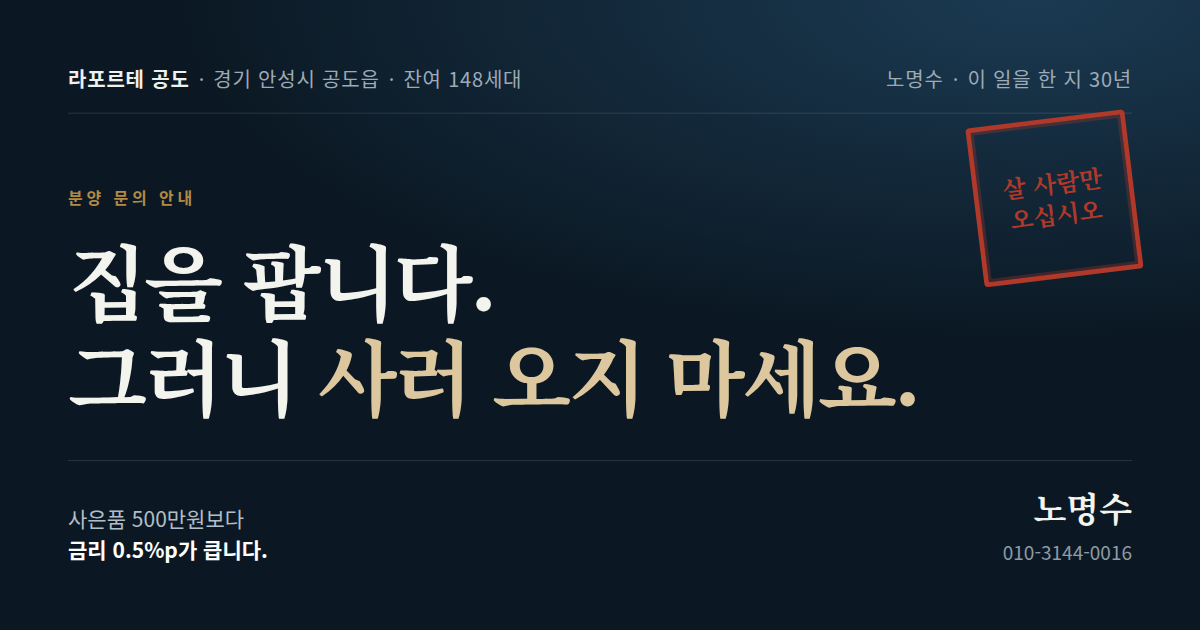
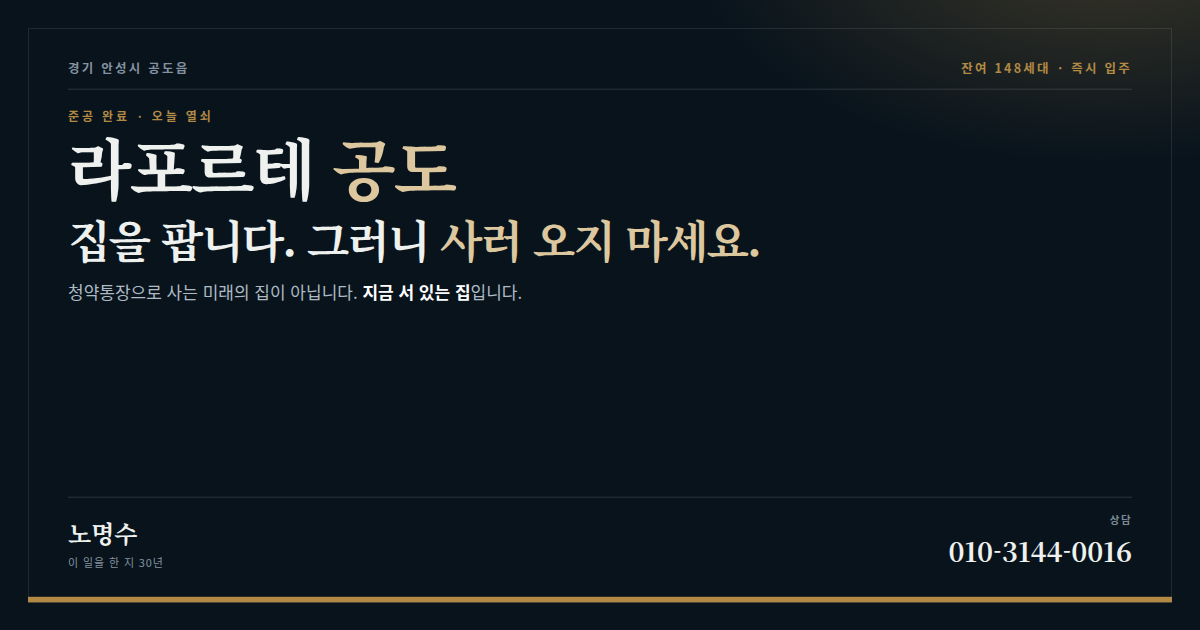
design: 단지명 '라포르테 공도' 대형 노출 + 유형상품(준공·즉시입주) 컨셉

diff --git a/hero_static.html b/hero_static.html
@@ -69,9 +69,20 @@
   .doc i{font-style:normal;color:#5f6d78;letter-spacing:.2em;font-size:9.2px;margin-right:7px}
   .doc b{color:#cdd6dc;font-weight:700;letter-spacing:.1em}
 
+  .hmast{margin:0 0 clamp(17px,2.6vw,26px)}
+  .hmast .eb{font-size:11px;letter-spacing:.24em;color:var(--gold);font-weight:800;
+    margin:0 0 clamp(8px,1.4vw,13px);display:block}
+  .hmast h2{font-family:var(--serif);font-weight:800;margin:0;color:#f8f6f0;
+    font-size:clamp(2.1rem,6.6vw,4.6rem);line-height:1;letter-spacing:-.04em}
+  .hmast h2 em{font-style:normal;color:var(--gold-soft)}
+  .hmast .sb{display:flex;align-items:center;gap:12px;margin-top:clamp(10px,1.6vw,15px)}
+  .hmast .sb .ln{flex:1;height:1px;background:rgba(178,138,69,.45);max-width:120px}
+  .hmast .sb span{font-size:clamp(10.6px,1.3vw,12.6px);letter-spacing:.1em;color:#93a1ab;
+    font-weight:700;flex:0 0 auto}
+  .hmast .sb b{color:#e2ddd0;font-weight:800}
   .hbody{position:relative}
   h1.h1x{font-family:var(--serif);font-weight:800;margin:0;color:#f6f4ee;
-    font-size:clamp(2.05rem,8.4vw,6.1rem);line-height:1.14;letter-spacing:-.045em}
+    font-size:clamp(1.5rem,4.5vw,3.25rem);line-height:1.2;letter-spacing:-.04em}
   h1.h1x .ln{display:block;overflow:hidden;padding-bottom:.1em;margin-bottom:-.1em}
   h1.h1x .ln > span{display:block;transform:translateY(112%);
     animation:rise .78s cubic-bezier(.16,.84,.28,1) forwards}
@@ -157,6 +168,17 @@
   @keyframes bob{0%,100%{transform:translateY(0)}50%{transform:translateY(4px)}}
   .cue:hover{color:#fff;border-bottom-color:#fff}
 
+  @media (max-width:600px){
+    .hmast{margin-bottom:12px}
+    .hmast h2{font-size:2.05rem}
+    .hmast .sb{margin-top:8px}
+    h1.h1x{font-size:1.42rem;line-height:1.26}
+    .hrule2{margin:11px 0 10px}
+    .hfoot .hl1{font-size:.86rem;line-height:1.72}
+    .hfoot .hl2{font-size:.8rem;line-height:1.68;margin-top:.55em}
+    .hled > div{padding:9px 7px 10px 0}
+    .cue{margin-top:14px;font-size:10.8px}
+  }
   @media (prefers-reduced-motion:reduce){
     h1.h1x .ln > span{transform:none;animation:none}
     .hero .stamp{opacity:.94;animation:none;transform:rotate(-8deg)}
@@ -602,6 +624,11 @@
     </div>
 
     <div class="hbody">
+      <div class="hmast">
+        <span class="eb">준공 완료 · 오늘 열쇠</span>
+        <h2>라포르테 <em>공도</em></h2>
+        <div class="sb"><span class="ln"></span><span><b>지어진 집</b>입니다</span><span class="ln"></span></div>
+      </div>
       <h1 class="h1x">
         <span class="ln"><span>집을 팝니다.</span></span>
         <span class="ln"><span>그러니</span></span>
@@ -611,7 +638,7 @@
 
       <hr class="hrule2">
       <div class="hfoot">
-        <p class="hl1">내 집은 <b>내가 결정하는 것</b>입니다. 누구의 설득에 기대지 않아도 됩니다.</p>
+        <p class="hl1">청약통장으로 사는 <b>미래의 집</b>이 아닙니다. 지금 서 있고, 오늘 문을 열 수 있는 집입니다.</p>
         <p class="hl2">그래서 사은품도, 입주지원금도 없습니다. 대신 <b>30년 동안 나가는 돈</b>을 적어 두었습니다.</p>
       </div>
     </div>
@@ -832,7 +859,7 @@
     <div class="fl">
       <span><b>라포르테 공도</b> 분양홍보관</span>
       <span>경기 안성시 공도읍</span>
-      <span>노명수 <b>010-3144-0016</b></span>
+      <span>노명수 <a href="tel:+821031440016" style="color:#dcc79e;text-decoration:none;border-bottom:1px solid rgba(220,199,158,.45);font-weight:800">010-3144-0016</a></span>
     </div>
     <div class="biz">
       <b>사업자 정보</b> — 광고 집행 전 아래 항목을 확정해 채워 주십시오.
@@ -848,7 +875,12 @@
     var note = document.getElementById('telNote'), btn = document.getElementById('copyTel');
     function show(){ if (note) note.classList.add('on'); }
     document.querySelectorAll('a[data-tel]').forEach(function(a){
-      a.addEventListener('click', function(){ setTimeout(show, 900); });
+      a.addEventListener('click', function(ev){
+        var num = a.getAttribute('data-tel');
+        setTimeout(show, 1100);
+        /* 일부 인앱 브라우저는 tel: 앵커를 무시한다 — 명시적으로 한 번 더 시도 */
+        try { if (!ev.defaultPrevented) { setTimeout(function(){ window.location.href = 'tel:' + num; }, 60); } } catch(e){}
+      });
     });
     if (btn) btn.addEventListener('click', function(){
       var t = '010-3144-0016';

diff --git a/index.html b/index.html
@@ -69,9 +69,20 @@
   .doc i{font-style:normal;color:#5f6d78;letter-spacing:.2em;font-size:9.2px;margin-right:7px}
   .doc b{color:#cdd6dc;font-weight:700;letter-spacing:.1em}
 
+  .hmast{margin:0 0 clamp(17px,2.6vw,26px)}
+  .hmast .eb{font-size:11px;letter-spacing:.24em;color:var(--gold);font-weight:800;
+    margin:0 0 clamp(8px,1.4vw,13px);display:block}
+  .hmast h2{font-family:var(--serif);font-weight:800;margin:0;color:#f8f6f0;
+    font-size:clamp(2.1rem,6.6vw,4.6rem);line-height:1;letter-spacing:-.04em}
+  .hmast h2 em{font-style:normal;color:var(--gold-soft)}
+  .hmast .sb{display:flex;align-items:center;gap:12px;margin-top:clamp(10px,1.6vw,15px)}
+  .hmast .sb .ln{flex:1;height:1px;background:rgba(178,138,69,.45);max-width:120px}
+  .hmast .sb span{font-size:clamp(10.6px,1.3vw,12.6px);letter-spacing:.1em;color:#93a1ab;
+    font-weight:700;flex:0 0 auto}
+  .hmast .sb b{color:#e2ddd0;font-weight:800}
   .hbody{position:relative}
   h1.h1x{font-family:var(--serif);font-weight:800;margin:0;color:#f6f4ee;
-    font-size:clamp(2.05rem,8.4vw,6.1rem);line-height:1.14;letter-spacing:-.045em}
+    font-size:clamp(1.5rem,4.5vw,3.25rem);line-height:1.2;letter-spacing:-.04em}
   h1.h1x .ln{display:block;overflow:hidden;padding-bottom:.1em;margin-bottom:-.1em}
   h1.h1x .ln > span{display:block;transform:translateY(112%);
     animation:rise .78s cubic-bezier(.16,.84,.28,1) forwards}
@@ -157,6 +168,17 @@
   @keyframes bob{0%,100%{transform:translateY(0)}50%{transform:translateY(4px)}}
   .cue:hover{color:#fff;border-bottom-color:#fff}
 
+  @media (max-width:600px){
+    .hmast{margin-bottom:12px}
+    .hmast h2{font-size:2.05rem}
+    .hmast .sb{margin-top:8px}
+    h1.h1x{font-size:1.42rem;line-height:1.26}
+    .hrule2{margin:11px 0 10px}
+    .hfoot .hl1{font-size:.86rem;line-height:1.72}
+    .hfoot .hl2{font-size:.8rem;line-height:1.68;margin-top:.55em}
+    .hled > div{padding:9px 7px 10px 0}
+    .cue{margin-top:14px;font-size:10.8px}
+  }
   @media (prefers-reduced-motion:reduce){
     h1.h1x .ln > span{transform:none;animation:none}
     .hero .stamp{opacity:.94;animation:none;transform:rotate(-8deg)}
@@ -601,6 +623,11 @@
     </div>
 
     <div class="hbody">
+      <div class="hmast">
+        <span class="eb">준공 완료 · 오늘 열쇠</span>
+        <h2>라포르테 <em>공도</em></h2>
+        <div class="sb"><span class="ln"></span><span><b>지어진 집</b>입니다</span><span class="ln"></span></div>
+      </div>
       <h1 class="h1x">
         <span class="ln"><span>집을 팝니다.</span></span>
         <span class="ln"><span>그러니</span></span>
@@ -610,7 +637,7 @@
 
       <hr class="hrule2">
       <div class="hfoot">
-        <p class="hl1">내 집은 <b>내가 결정하는 것</b>입니다. 누구의 설득에 기대지 않아도 됩니다.</p>
+        <p class="hl1">청약통장으로 사는 <b>미래의 집</b>이 아닙니다. 지금 서 있고, 오늘 문을 열 수 있는 집입니다.</p>
         <p class="hl2">그래서 사은품도, 입주지원금도 없습니다. 대신 <b>30년 동안 나가는 돈</b>을 적어 두었습니다.</p>
       </div>
     </div>
